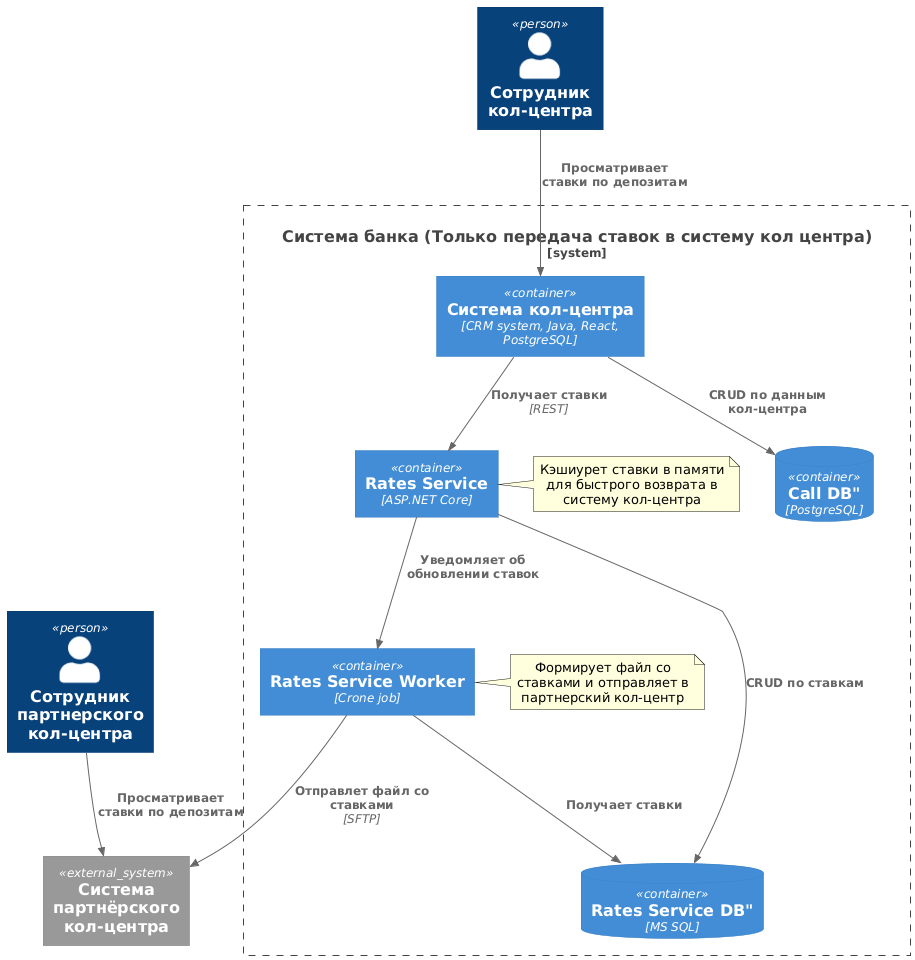
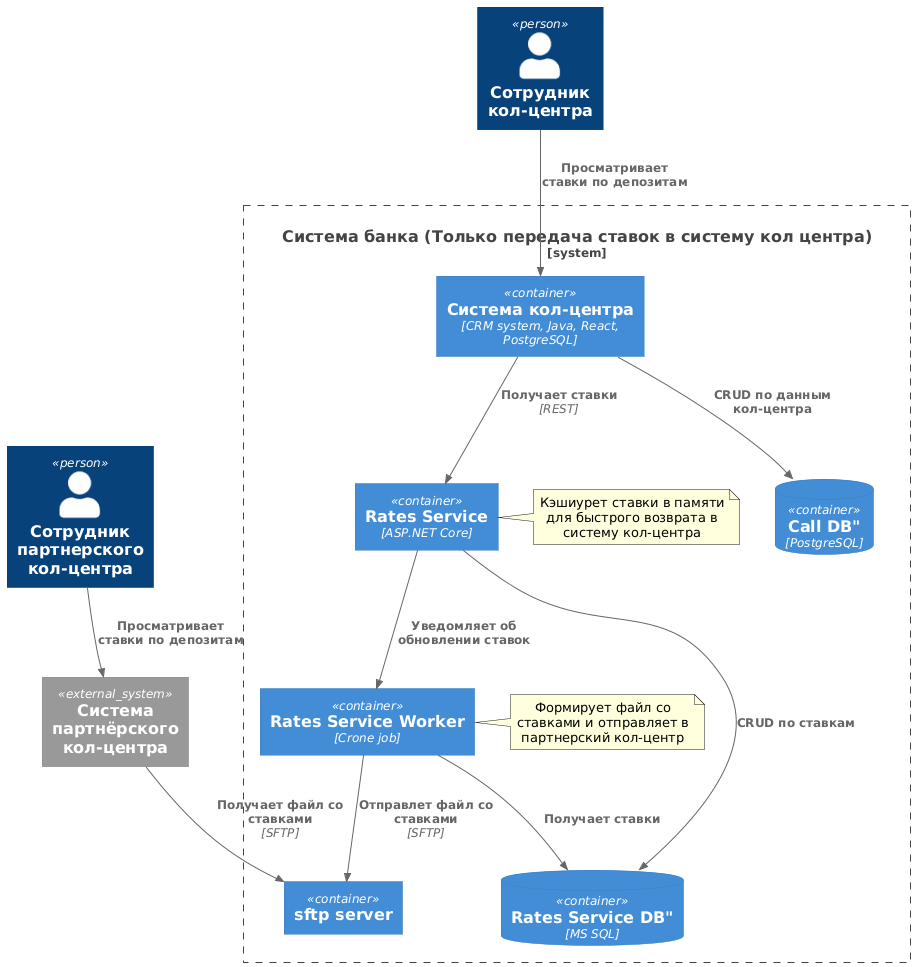
Доработки по ревью

diff --git a/Task3/ADR.md b/Task3/ADR.md
@@ -2,9 +2,35 @@
 
 |**№**|**Действующие лица или системы**|**Use Case**|**Описание**|
 |-----|--------------------------------|------------|------------|
-| UC1 | Клиент, Сотрудник бэкофиса, Система банка | Подача заявки на депозит через сайт | 1. Клиент открывает сайт и переходит на страницу депозитов  <br> 2. Система отображает доступные депозиты <br>  3. Клиент выбирает депозит и подает заявку, заполнив в отобразившейся форме свой номер телефона и Ф. И. О. <br> 3. Система создает заявку <br> 4. Менеджер кол-центра обрабатывает заявку в системе |
-| UC2 | Клиент, Сотрудник кол-центра, Система банка | Подача заявки на депозит через интернет банк | 1. Клиент авторизуется в интернет банке <br> 2.Система отображает список доступных депозитов в т.ч персонализированные предложения  <br>  3. Клиент выбирает депозит и подает заявку, заполнив в форме счёт и сумму депозита <br> 4. Система отправляет смс для подверждения заявки <br> 5. Клиент вводит код из смс  <br>6. Система создает заявку <br> 7. Система отображает сотруднику бэк офиса заявки  <br> 8. Сотрудник кол-центра обрабатывает заявку|
+| UC1 | Клиент, Сотрудник кол-центра, Система банка | Подача заявки на депозит через сайт | 
+1. Клиент открывает сайт и переходит на страницу депозитов  <br> 
+2. Система отображает доступные депозиты <br>  
+3. Клиент выбирает депозит и подает заявку, заполнив в отобразившейся форме свой номер телефона и Ф. И. О. <br>
+4. Система создает заявку <br> 
+5. Сотрудник кол-центра открывает функционал для работы с заявками <br> 
+6. Система отображает заявки <br> 
+7. Сотрудник кол-центра изучает заявки и звонит клиентам <br> |
+| UC2 | Клиент, Сотрудник бэкофиса, Система банка | Подача заявки на депозит через интернет банк | 
+1. Клиент авторизуется в интернет банке <br> 
+2. Система отображает список доступных депозитов в т.ч персонализированные предложения  <br>  
+3. Клиент выбирает депозит и подает заявку, заполнив в форме счёт и сумму депозита <br> 
+4. Система отправляет смс для подверждения заявки <br> 
+5. Клиент вводит код из смс  <br>
+6. Система создает заявку <br> 
+7. Система отображает сотруднику бэк офиса заявки  <br> 
+8. Сотрудник бэк-офиса подтверждает заявку и размер ставки
+8. Система отпарвляет клиенту СМС уведомление
 | UC3 | Сотрудник  бэкофиса, Система банка | Формирование ставок по депозитам | 1. Сотрудник  бэкофиса авторизуется в системе <br> 2. Сотрудник  бэкофиса переходит на страницу депозитов  <br>  3. Система отображает текущие ставки <br> 4. Сотрудник  бэкофиса вводит актуальные данные для расчета ставок <br> 5. Система расчитывает актуальные ставки  |
+| UC4 | Клиент, Сотрудник фронт-офиса, Система банка | Открытие депозита в отделении без предварительного звонка | 
+1. Сотрудник фронт-офиса открывает систему и переходит к функционалу ведения клиентской базы <br>
+2. Сотрудник фронт-офиса идентифицирует клиента <br>
+3. Сотрудник фронт-офиса переходит к функционалу депозитов <br>
+4. Система отображает список доступных депозитов в т.ч персонализированные предложения <br>
+5. Сотрудник фронт-офиса выбирает депозит и подает заявку, заполнив в форме счёт и сумму депозита <br>
+6. Система создает заявку <br> 
+7. Система отображает сотруднику бэк офиса заявки  <br> 
+8. Сотрудник бэк-офиса подтверждает заявку и размер ставки
+|
 
 ### <a name="_u8xz25hbrgql"></a>**Нефункциональные требования**
 
@@ -14,7 +40,7 @@
 | 2 | Интерфейс должен быть максимально удобен для клиента |
 | 3 | Режим работы 24/7 |
 | 4 | Возможность работы интернет-банка и сайта при сбое ЦОД |
-| 5 | Время отклика интерфейса не более нескольких миллисекунд  |
+| 5 | Время отклика интерфейса не более 1 секунды для 95% запросов  |
 | 6 | Возможность горизонтального масштабирования  |
 | 7 | Должна быть разработана документация  |
 | 8 | СМС-функционал реализован в ядре  |
@@ -32,14 +58,20 @@
 Для интеграции новых сервисов с АБС исопльузем ACL, у банков много сложных и важных интеграций, лучше перебдеть.  
 Начинаем разрабокту нового фронтед приложения, чтобы объединить все системы в одном интерфейсе, но на первое время сотрудникам придется работать в двух приложениях.  
 Вводим BFF/шлюз между всеми системами, которые обращаются к новым микросервисам, а также загоняем туда трафик от существубющих интеграций. Это позволит проще управлять запросами к растущему количеству сервисов. 
-А также позволит балансировать нагрузку, в том числе к АБС. И логировать систему.
-Кафку пока на MVP не вводим так как архитектура уже требует достаточно вложений и в целом для функционала депозитов она пока не требуется.
+А также позволит балансировать нагрузку, в том числе к АБС. И логировать систему.   
+
+В процессе проработки было выявлено, что несмотря на вынос части логики из АБС, критические операции (открытие депозита) остаются в ней.
+В связи с этим синхронное взаимодействие создаёт риск перегрузки АБС, поэтому было принято решение добавить асинхронный слой обработки заявок через фоновую обработку.
+Для обеспечения асинхронного взаимодействия с АБС на MVP используется фоновая обработка заявок с очередью в базе данных.
+Это позволяет контролировать нагрузку на Автоматизированная банковская система без усложнения инфраструктуры.
+Использование Apache Kafka на данном этапе избыточно, так как ожидаемые объёмы нагрузки могут быть обработаны более простым решением.
+При успехе новой бизнес возможности (нлайн оформление депозитов) и росте нагрузки планиурется переход на брокер сообщений.
 
 ### <a name="_bjrr7veeh80c"></a>**Альтернативы**
 Доработка существующих систем без выделения микросервисов. Масштабирвоание через репликацию БД. Недостатки: усложняет масштабирование, создает лишнюю работу так как в конце концов необходим переход на микросервисы.  
 Не выделять отдельный сервис ставок: Недостаток: все равно понадобится при реализации кредитного функционала.  
 Не использовать шлюзы и бфф. Недостаток: система уже имеет достаточно разветвленную маршрутизацию, это может стать проблемой при поддержке. Плюс надо как-то балансировать нагрузку.
-
+Исопльзование Кафка для реализации асинхронности. Недостаток: необходимость поднимать инфраструктуру под сложное ПО, в рамках MVP - лишняя трата ресурсов.
 **Недостатки, ограничения, риски**
 
 #### Недостатки:  
@@ -51,4 +83,4 @@
 #### Риски:  
 Сложность реализации, потребуется погружение сотрудников в концепцию микросервисов.   
 Могут быть сложности в интеграциях новых микросервисов со старыми системами. 
-Синхронное взаимодействие может стать причиной отказов и понижения доступности. 
+

diff --git a/Task2/FURPS.md b/Task2/FURPS.md
@@ -3,31 +3,39 @@
 | F   | Функциональные (Functionality)     |              |
 | F1  | На сайте новый клиент видит список доступных депозитов с актуальными ставками. |              |
 | F2  | На сайте клиент может подать заявку на депозит, оставив свой номер телефона и Ф. И. О. | |
-| F3  | Менеджер кол-центра видит заявки в системе кол-центра | |
-| F4  | В интернет-банке клиент видит список доступных депозитов с актуальными ставками и персонализированные ставки лично для него | |
-| F5  | В интернет-банке клиент может подать заявку на открытие депозита | |
-| F6  | Заявку на открытие депозита необходимо подтвердить с помощью СМС-кода. | |
-| F7  | На MVP сотрудники бэк-офиса должны иметь возможность обрабатывать заявки клиентов на депозиты  | |
-| F8  | Клиент должен получить СМС-уведомление после подтверждения размера ставки и открытия депозита  | |
+| F3  | Менеджер кол-центра видит заявки в системе кол-центра |Архитектурно значимое: интеграция с системой кол-центра |
+| F4  | В интернет-банке клиент видит список доступных депозитов с актуальными ставками и персонализированные ставки лично для него |Архитектурно значимое: требуется источник данных ставок (отдельный сервис или хранилище), независимый от АБС. |
+| F5  | В интернет-банке клиент может подать заявку на открытие депозита, указав счет и сумму депозита| Архитектурно значимое: требуется интеграция с системой хранения заявок и валидация счета клиента (интеграция с АБС или её заменяющим слоем).|
+| F6  | Заявку на открытие депозита необходимо подтвердить с помощью СМС-кода. | Архитектурно значимое: интеграция с телеком |
+| F7  | На MVP сотрудники бэк-офиса должны иметь возможность обрабатывать заявки клиентов на депозиты  |Архитектурно значимое: требуется система управления заявками (хранение, статусы, обработка) |
+| F8  | Клиент должен получить СМС-уведомление после подтверждения размера ставки и открытия депозита  | Архитектурно значимое: интеграция с телеком |
+| F9  | Сотрудники депозитного и кредитного бэк-офиса должны иметь возможность работать со ставками депозитов | Архитектурно значимое: требуется система управления ставками с разграничением доступа между подразделениями |
+| F10 | Система должна обеспечивать хранение и актуализацию ставок депозитов (вместо XLS-файлов) |Архитектурно значимое: требуется централизованное хранилище ставок с возможностью обновления и совместного использования разными подразделениями. |
 |     |                                    | |
 | U   | Удобство использования (Usability) |              |
 | U1  | Дизайн интерфейса должен соответствовать принятому в банке дизайн коду |              |
-| U2  | Интерфейс должен быть максимально удобен для клиента |              |
+| U2  | взаимодействие системы и пользователя должно осуществляться на русском языке, за исключением системных сообщений, не подлежащих русификации |              |
+| U3  | должно быть реализовано отображение на экране только тех возможностей, которые доступны конкретному пользователю в соответствии с его функциональной ролью в системе |              |
+| U4  | представление управляющих элементов, экранных форм и их информационных элементов (окон, панелей и т.п.) должно быть унифицировано. |              |
+| U5  | для обозначения сходных операций должны использоваться сходные графические значки, кнопки и другие управляющие (навигационные) элементы |              |
 |     |                                 |              |
 | R   | Надёжность (Reliability)           |              |
 | R1  | Режим работы 24/7                  |              |
-| R2  | Возможность работы интернет-банка и сайта при сбое ЦОД.                |              |
+| R2  | Возможность работы интернет-банка и сайта при сбое ЦОД.                |  Архитектурно значимое: требуются резервные инстансы системы            |
+| R3  | Сервис должен быть достпен в 99,9% случаев.| Архитектурно значимое: требует отказоустойчивой архитектуры (резервные ЦОД, балансировка, отсутствие единой точки отказа). |
 |     |                                 |              |
 | P   | Производительность (Performance)   |              |
-| P1  | Время отклика интерфейса не более нескольких миллисекунд   |              |
-| P2  | Возможность горизонтального масштабирования   |              |
+| P1  | Время отклика интерфейса не более 1 секунды для 95% запросов  |              |
+| P2  | Возможность горизонтального масштабирования   |  Архитектурно значимое            |
 |     |                                 |              |
 | S   | Поддерживаемость (Supportability)  |              |
-  S1  | Должна быть разработана документация                                |              |
+| S1  | Должна быть разработана документация  |              |
 |     |                                 |              |
 | +R  | + Ограничения (Restrictions)       |              |
-| +R1 |Нельзя нагружать АБС прямыми онлайн-запросами от интернет-банка — база перегружена.  |              |
-| +R2 |СМС-функционал реализован в ядре, и дорабатывать его подрядчиком нежелательно.  |              |
-| +R3 |Текущая платформа интернет-банка несовместима с Kafka. |              |
-| +R4 |Нужно как можно больше использовать технологии, которые уже есть в банке. |              |
-| +R5 | Необходимо обеспечить защиту трафика и защищенное хранения перс. данных  | |
+| +R1 |Нельзя нагружать АБС прямыми онлайн-запросами от интернет-банка — база перегружена.  |  Архитектурно значимое: требует введения промежуточного слоя (отдельный сервис или очередь).            |
+| +R2 |СМС-функционал реализован в ядре, и дорабатывать его подрядчиком нежелательно.  |  Архитектурно значимое            |
+| +R3 |Текущая версия платформы интернет-банка несовместима с Kafka. |    Архитектурно значимое: требуется обновление платформы или прослойка          |
+| +R4 |Нужно как можно больше использовать технологии, которые уже есть в банке. |  Архитектурно значимое: выбор технологий ограничен (MS SQL, Oracle, C#)            |
+| +R5 | Передача данных должна осуществляться по защищенному каналу (HTTPS/TLS) | |
+| +R6 | Персональные данные клиентов должны храниться в зашифрованном виде |Архитектурно значимое |
+| +R7 | Доступ к данным АБС должен осуществляться только через API или интеграционный слой, без прямого доступа к БД | Архитектурно значимое: устраняет текущую проблему прямых интеграций и снижает связанность систем |

diff --git a/Task4/ADR.md b/Task4/ADR.md
@@ -5,8 +5,8 @@
 
 |**№**|**Действующие лица или системы**|**Use Case**|**Описание**|
 |-----|--------------------------------|------------|------------|
-| UC1 | Сотрудник  кол-центра, система кол-центра, сервис ставок | Просомтр ставок по депозитам в кол-центре банка| 1. Сотрудник кол-центра в системе кол-центра переходит к просмотру ставок по депозитам  <br>  2. Система кол-ценрта делает запрос к АПИ сервиса депозитов  <br> 3. Сервис депозитов возвращает актуальные ставки по депозитам <br> 4. Система кол-центра отображает ставки по депозитам |
-| UC2 | Сотрудник партнерского  кол-центра, система кол-центра | Просомтр ставок по депозитам в партнерском кол-центре  | 1. Сотрудник кол-центра в системе кол-центра переходит к просмотру ставок по депозитам <br> 2. Система кол-центра отображает ставки по депозитам|
+| UC1 | Сотрудник  кол-центра банка, система кол-центра банка, сервис ставок | Просомтр ставок по депозитам в кол-центре банка| 1. Сотрудник кол-центра банка в системе кол-центра банка переходит к просмотру ставок по депозитам  <br>  2. Система кол-ценрта банка делает запрос к АПИ сервиса депозитов  <br> 3. Сервис депозитов возвращает актуальные ставки по депозитам <br> 4. Система кол-центра банка отображает ставки по депозитам |
+| UC2 | Сотрудник партнерского  кол-центра, система парнерского кол-центра | Просомтр ставок по депозитам в партнерском кол-центре  | 1. Сотрудник партнерского кол-центра в системе партнерского кол-центра переходит к просмотру ставок по депозитам <br> 2. Система партнерского кол-центра отображает актуальные ставки по депозитам |
 | UC3 | Система партнерского кол-центра, система банка | Передача ставок по депозитам в кол-центр  | 1. Система банка формирует файл со ставками <br> 2. Файл передаётся во внешнюю систему <br> 2. Система партнёрского кол-центра загружает файл|
 
 ### <a name="_u8xz25hbrgql"></a>**Нефункциональные требования**
@@ -17,7 +17,6 @@
 | 2 | Доступность сервиса предоставления ставок — 99,9% |
 | 3 | Время получения списка депозитных ставок — не более 2 секунд |
 | 4 | Передача файлов только по защищённому протоколу |
-| 5 | Передача файлов только по защищённому протоколу |
 
 ### <a name="_qmphm5d6rvi3"></a>**Решение**
 
@@ -30,7 +29,8 @@
 В будущем передача актуальных ставок в систему кол центра может быть реализовано через кафку для повышения доступности на случай отказа сервиса ставок. На MVP для простоты банковский кол-центр получает ставки напрямую из сервиса ставок. Для быстродействия сервис ставок кеширует ставки (пока в памяти).
 Отдельный воркер занимается формированеим файла и передачей в партнерский кол центр для снижения нагрузки на основной сервис и возможности горизонтального масштабирования.
 ### <a name="_bjrr7veeh80c"></a>**Альтернативы**
-
+Использовать Кафку для передачи файла на sftp сервер. Недостаток: Кафка не предназанчена для передачи файлов.
+Не исопльзовать отдельный воркер для формирвоания файла. Недостаток: снижается возможность масштабирования, повышается риск выхода из строя всего сервиса ставок.
 
 **Недостатки, ограничения, риски**
 ### Недостатки:  
@@ -42,6 +42,22 @@ Deposit Service Worker как один cron-job. Если упадёт или н
 ### Ограничения:  
 Передача ставок в партнерский кол-центр только через файл.  
 Внешняя система полностью контролирует обработку файла.  
+
+### **Задачи**
+|**№**|**Система**|**Задача**
+|-----|--------------|------|
+| 1 | Сервис ставок| Разработать апи для получения ставок |
+| 2 | Сервис ставок|Разработать воркер для создания и передачи файла ставок |
+| 3 | Сервис ставок|Собрать файл |
+| 4 | Сервис ставок|Реализация передачи файла|
+| 5 | Сервис ставок|Тестирование |
+| 6 | Инфраструктура |Реализация SFTP инфраструктуры |
+| 7 | Кол центр банка |Подключиться к АПИ сервиса ставок |
+| 8 | Кол центр банка |Тестирование |
+| 9 | Партнерский кол центр банка |Сформировать шаблон файла ставок |
+| 10 | Партнерский кол центр банка |Загрузка ставок из файла |
+| 11 | Партнерский кол центр банка |Тестирование |
+
 
 ### **RoadMap**
 ![containerC4](https://github.com/Gotoh666/architecture-standart/blob/tasks/Task4/RoadMap.png)
